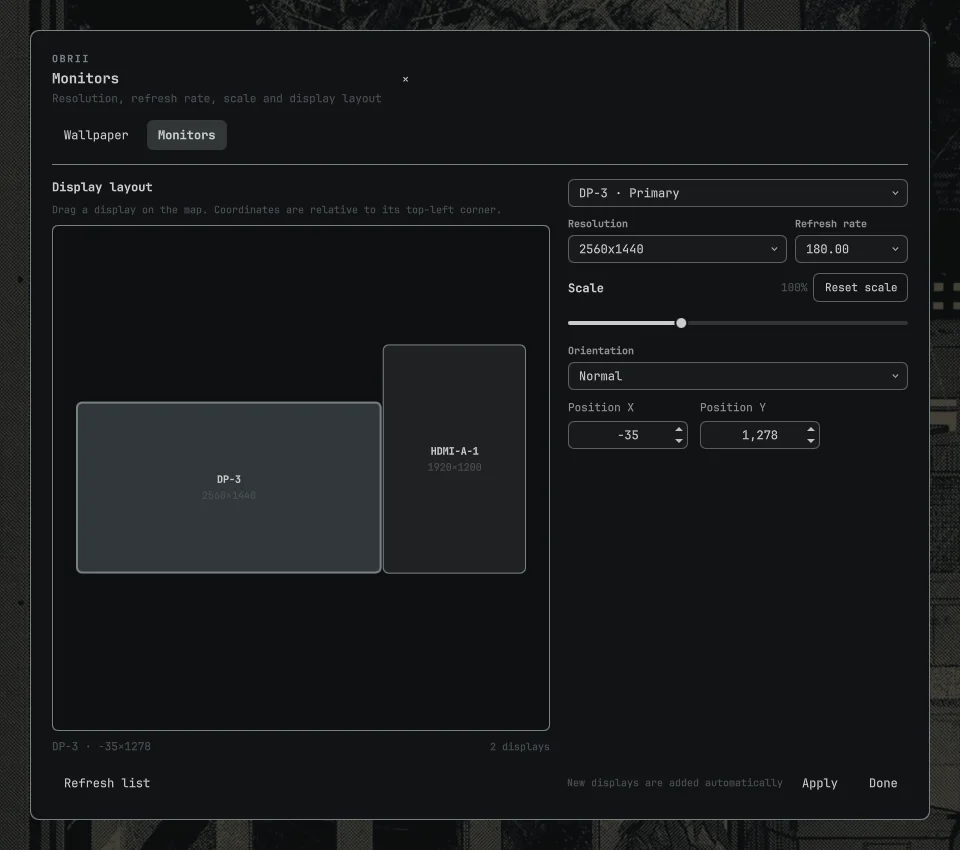
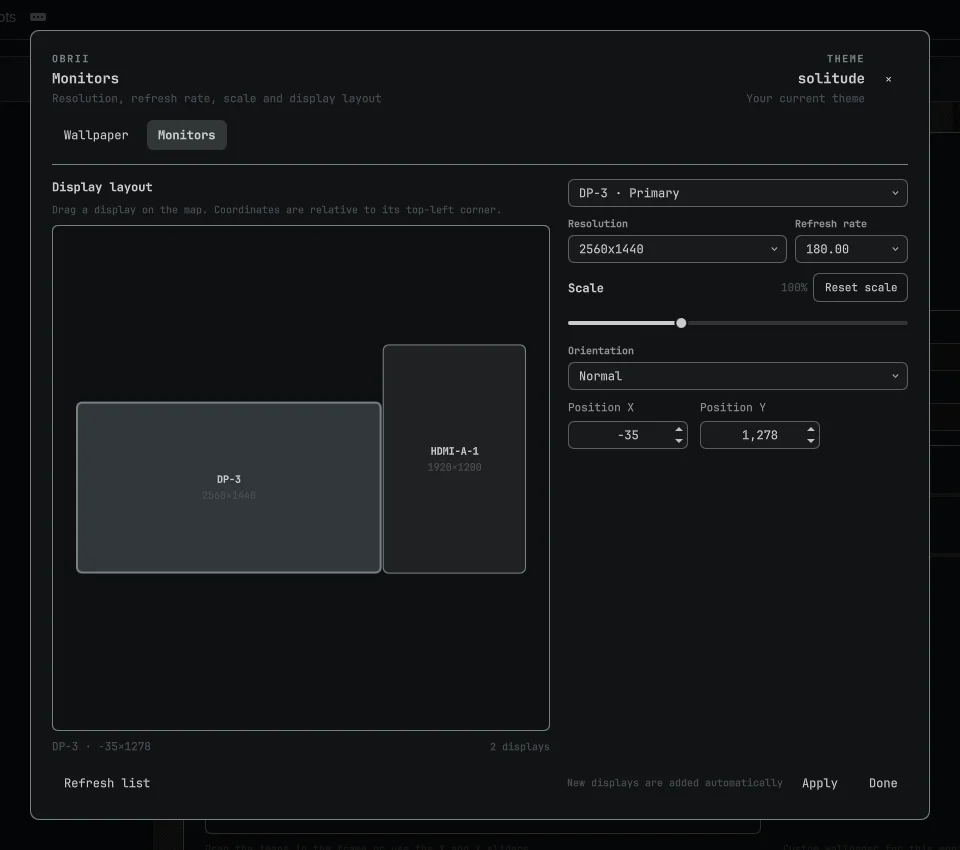
Show the active theme in the header and add theme images from the panel
The header mirrors the title block on the right: a THEME caption, the theme
name in the title size, and a muted 'Your current theme' line. 'Add image to
theme…' copies a picture into ~/.config/omarchy/backgrounds/<theme>/ so Omarchy
lists it among the theme's backgrounds. README screenshots regenerated.

diff --git a/plugins/elinchi.wallpaper-editor/Panel.qml b/plugins/elinchi.wallpaper-editor/Panel.qml
@@ -25,6 +25,8 @@ Item {
   property bool dragging: false
   property string errorText: ""
   property string configError: ""
+  property string statusMessage: ""
+  property string currentTheme: ""
   property var pendingOffsets: null
   property string selectedMonitor: ""
   property string globalWallpaper: ""
@@ -68,6 +70,7 @@ Item {
     activeTab = payload.tab === "monitors" ? "monitors" : "wallpaper"
     opened = true
     errorText = ""
+    statusMessage = ""
     loadMonitorsProc.running = true
     readConfigProc.running = true
     readGlobalProc.running = true
@@ -330,6 +333,7 @@ Item {
   function runCommand(args) {
     if (commandProc.running) return
     errorText = ""
+    statusMessage = ""
     busy = true
     commandProc.command = args
     commandProc.running = true
@@ -431,6 +435,16 @@ Item {
   readonly property var monitorOptions: monitors.map(function(m) {
     return { value: m.name, label: m.name + (m.name === "DP-3" ? " · " + root.tr("monitor.primary") : "") }
   })
+
+  FileView {
+    id: themeNameView
+    path: Quickshell.env("HOME") + "/.local/state/omarchy/current/theme.name"
+    watchChanges: true
+    printErrors: false
+    onLoaded: root.currentTheme = String(text() || "").trim()
+    onFileChanged: reload()
+    onLoadFailed: root.currentTheme = ""
+  }
 
   Process {
     id: loadMonitorsProc
@@ -573,6 +587,38 @@ Item {
     }
   }
 
+  Process {
+    id: themeImageProc
+    command: ["omarchy-per-monitor-bg", "add-theme-image"]
+    property string addedPath: ""
+    property string failureText: ""
+    stdout: StdioCollector {
+      waitForEnd: true
+      onStreamFinished: themeImageProc.addedPath = String(text || "").trim()
+    }
+    stderr: StdioCollector {
+      waitForEnd: true
+      onStreamFinished: themeImageProc.failureText = root.backendMessage(String(text || ""))
+    }
+    onExited: function(code) {
+      root.busy = false
+      if (code === 0) {
+        if (themeImageProc.addedPath) {
+          var name = themeImageProc.addedPath.split("/").pop()
+          root.statusMessage = root.trf("status.themeImageAdded", { name: name })
+          root.debugLog("info", "theme image added: " + themeImageProc.addedPath)
+        }
+      } else {
+        root.errorText = root.trf("error.addThemeImage", {
+          detail: themeImageProc.failureText || ("exit " + code)
+        })
+        root.debugLog("error", root.errorText)
+      }
+      themeImageProc.addedPath = ""
+      themeImageProc.failureText = ""
+    }
+  }
+
   PanelWindow {
     visible: root.opened
     anchors { top: true; bottom: true; left: true; right: true }
@@ -645,6 +691,42 @@ Item {
                   font.family: Style.font.family
                   font.pixelSize: Style.font.bodySmall
                   wrapMode: Text.Wrap
+                }
+              }
+              Item { Layout.fillWidth: true }
+              ColumnLayout {
+                visible: !!root.currentTheme
+                Layout.alignment: Qt.AlignTop
+                spacing: Style.space(3)
+                Text {
+                  Layout.fillWidth: true
+                  text: root.tr("theme.caption")
+                  color: Color.accent
+                  font.family: Style.font.family
+                  font.pixelSize: Style.font.caption
+                  font.bold: true
+                  font.letterSpacing: 1.6
+                  horizontalAlignment: Text.AlignRight
+                }
+                Text {
+                  Layout.fillWidth: true
+                  Layout.alignment: Qt.AlignRight
+                  text: root.currentTheme
+                  color: Color.foreground
+                  font.family: Style.font.family
+                  font.pixelSize: Style.font.title
+                  font.bold: true
+                  horizontalAlignment: Text.AlignRight
+                  Layout.maximumWidth: Style.space(260)
+                  elide: Text.ElideRight
+                }
+                Text {
+                  Layout.fillWidth: true
+                  text: root.tr("theme.currentHint")
+                  color: Color.muted
+                  font.family: Style.font.family
+                  font.pixelSize: Style.font.bodySmall
+                  horizontalAlignment: Text.AlignRight
                 }
               }
               Button { text: "×"; onClicked: root.dismiss(); implicitWidth: Style.space(38); implicitHeight: Style.space(38) }
@@ -915,11 +997,12 @@ Item {
 
                 Text {
                   Layout.fillWidth: true
-                  text: root.errorText || root.configError || (root.busy ? root.tr("status.busy")
+                  text: root.errorText || root.configError || root.statusMessage || (root.busy ? root.tr("status.busy")
                     : (root.selectedConfig.wallpaper ? root.tr("status.ownWallpaper")
                       : (root.hasMonitorOverride ? root.tr("status.globalMoved")
                         : root.tr("status.global"))))
-                  color: (root.errorText || root.configError) ? Color.urgent : Color.muted
+                  color: (root.errorText || root.configError) ? Color.urgent
+                    : (root.statusMessage ? Color.accent : Color.muted)
                   font.family: Style.font.family
                   font.pixelSize: Style.font.caption
                   wrapMode: Text.Wrap
@@ -1213,6 +1296,16 @@ Item {
                 text: root.tr("button.changeTheme")
                 enabled: !root.busy
                 onClicked: root.changeTheme()
+              }
+              Button {
+                text: root.tr("button.addThemeImage")
+                enabled: !root.busy
+                onClicked: {
+                  root.statusMessage = ""
+                  root.errorText = ""
+                  root.busy = true
+                  themeImageProc.running = true
+                }
               }
               Button {
                 text: root.tr("button.resetMonitor")

diff --git a/plugins/elinchi.wallpaper-editor/I18n.js b/plugins/elinchi.wallpaper-editor/I18n.js
@@ -78,6 +78,7 @@ var dictionaries = {
     "button.wait": "Please wait…",
     "button.chooseImage": "Choose image…",
     "button.changeTheme": "Change theme…",
+    "button.addThemeImage": "Add image to theme…",
     "button.resetMonitor": "Reset for monitor",
     "button.done": "Done",
     "button.refreshList": "Refresh list",
@@ -86,6 +87,11 @@ var dictionaries = {
     "status.displayBusy": "Applying and saving…",
     "status.displayDirty": "Unsaved changes",
     "status.displayClean": "New displays are added automatically",
+
+    "theme.caption": "THEME",
+    "theme.currentHint": "Your current theme",
+    "status.themeImageAdded": "Added to the theme: {name}",
+    "error.addThemeImage": "Could not add the image to the theme: {detail}",
 
     "error.unsavedMonitor": "Apply or discard this monitor's pending changes first.",
     "error.configRead": "Could not read the wallpaper configuration: {detail}",
@@ -172,6 +178,7 @@ var dictionaries = {
     "button.wait": "Зачекай…",
     "button.chooseImage": "Вибрати зображення…",
     "button.changeTheme": "Змінити тему…",
+    "button.addThemeImage": "Додати зображення до теми…",
     "button.resetMonitor": "Скинути для монітора",
     "button.done": "Готово",
     "button.refreshList": "Оновити список",
@@ -180,6 +187,11 @@ var dictionaries = {
     "status.displayBusy": "Застосовую й зберігаю…",
     "status.displayDirty": "Є незбережені зміни",
     "status.displayClean": "Нові дисплеї додаються автоматично",
+
+    "theme.caption": "ТЕМА",
+    "theme.currentHint": "Ваша поточна тема",
+    "status.themeImageAdded": "Додано до теми: {name}",
+    "error.addThemeImage": "Не вдалося додати зображення до теми: {detail}",
 
     "error.unsavedMonitor": "Спочатку застосуй або скасуй незбережені параметри цього монітора.",
     "error.configRead": "Не вдалося прочитати налаштування шпалер: {detail}",

diff --git a/README.md b/README.md
@@ -79,6 +79,9 @@ into `~/.config/omarchy/extensions/omarchy-menu.jsonc`.
   - `Position` anchors `crop`/`fit` (center, edges, corners).
   - `Choose image…` sets a wallpaper for this monitor (stored per theme).
   - `Change theme…` opens Omarchy's theme picker; the editor stays open.
+  - `Add image to theme…` copies a picture into
+    `~/.config/omarchy/backgrounds/<theme>/`, so Omarchy lists it among the
+    theme's backgrounds. The active theme is always shown in the header.
   - `Reset for monitor` drops the whole per-monitor entry (wallpaper + geometry).
 - **Displays tab**
   - Drag displays on the map, choose resolution/refresh rate/scale/orientation.
@@ -238,6 +241,9 @@ cd Obrii
   - `Позиція` — якір для `crop`/`fit` (центр, краї, кути).
   - `Вибрати зображення…` — окрема шпалера для цього монітора (зберігається для теми).
   - `Змінити тему…` — відкриває штатний пікер тем Omarchy; редактор лишається відкритим.
+  - `Додати зображення до теми…` — копіює зображення в
+    `~/.config/omarchy/backgrounds/<тема>/`, після чого Omarchy показує його
+    серед фонів теми. Поточна тема завжди видна в заголовку.
   - `Скинути для монітора` — видаляє весь запис монітора (шпалеру й геометрію).
 - **Вкладка «Монітори»**
   - Перетягуй дисплеї на схемі, вибирай роздільність, частоту, масштаб, орієнтацію.
